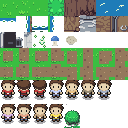
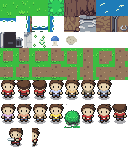
Add 4-direction walk animation (v0.3.1)
The player now uses all three of the pack's direction groups: front
walk frames heading south, back-view frames heading north, and the
left profile flipped for eastward travel. Idle keeps the last facing
(front/profile/back). Facing is a 4-way dir field, persisted in the
autosave (old saves default to 'down' and still load).

Claude-Session: https://claude.ai/code/session_01ChLL6QenZNTuqnURQ6Drzs

diff --git a/index.html b/index.html
@@ -141,7 +141,7 @@
 
 <script>
 'use strict';
-const VERSION='0.3.0';
+const VERSION='0.3.1';
 /* =====================================================================
    FOGVALE — Chapter One: The Stable Door
    A single-file, phone-first, Ultima-VII-inspired browser RPG prototype.
@@ -236,7 +236,7 @@ const objects = []; // {x,y,type}
 const objectAt=(x,y)=>objects.find(o=>o.x===x&&o.y===y);
 
 /* ---------- game state ---------- */
-const P = { x:17, y:60, rx:17, ry:60, face:1 }; // player tile + render position + facing
+const P = { x:17, y:60, rx:17, ry:60, dir:'down' }; // player tile + render position + 4-way facing
 let path = [];                                  // queued steps [{x,y}...]
 let pending = null;                             // interaction on arrival
 let stepClock = 0;
@@ -525,7 +525,7 @@ function saveGame(){
   if(!started) return;
   try{
     localStorage.setItem(SAVE_KEY, JSON.stringify({
-      v:1, x:P.x, y:P.y, face:P.face, time, inv, F, V,
+      v:1, x:P.x, y:P.y, dir:P.dir, time, inv, F, V,
       topics:[...knownTopics], doors:[...openDoors], seen:[...explored],
       left:objects.filter(o=>o.type!=='body').map(o=>o.x+','+o.y)
     }));
@@ -540,7 +540,7 @@ function loadGame(){
     say('Your old tale could not follow you here; the vale begins anew.');
     return false;
   }
-  P.x=s.x; P.y=s.y; P.rx=s.x; P.ry=s.y; P.face=s.face||1;
+  P.x=s.x; P.y=s.y; P.rx=s.x; P.ry=s.y; P.dir=s.dir||'down';
   time=s.time|0;
   Object.assign(inv,s.inv); Object.assign(F,s.F); Object.assign(V,s.V);
   for(const t of s.topics) knownTopics.add(t);
@@ -724,11 +724,13 @@ const ATLAS_DEF = {
   road12:[64,64,16,16], road13:[80,64,16,16], road14:[96,64,16,16], road15:[112,64,16,16],
   player0:[0,80,16,24], player1:[16,80,16,24], player2:[32,80,16,24],
   npc0:[48,80,16,24], npc1:[64,80,16,24], npc2:[80,80,16,24], npc3:[96,80,16,24],
-  npc4:[0,104,16,24], npc5:[16,104,16,24], npc6:[32,104,16,24], npc7:[48,104,16,24]
+  npc4:[0,104,16,24], npc5:[16,104,16,24], npc6:[32,104,16,24], npc7:[48,104,16,24],
+  playerD1:[80,104,16,24], playerD2:[96,104,16,24], playerL0:[112,104,16,24],
+  playerU0:[0,128,16,24], playerU1:[16,128,16,24], playerU2:[32,128,16,24]
 };
 /*ATLAS_DEF_END*/
 const NPC_COLORS=['#b8c4e8','#d8b47e','#8a7f6a','#9aa5b8','#c9a8d8','#d89a7e','#b89a78','#e8d454'];
-const ATLAS_W=128, ATLAS_H=128;
+const ATLAS_W=128, ATLAS_H=160;
 
 let atlasReady=false, atlasCv=null, terrainCv=null;
 const atlasImg=new Image();
@@ -870,8 +872,13 @@ function draw(now){
     drawSprite(npcCell(n), n.x*ts-camX, n.y*ts-camY);
   }
   const walking = path.length>0 || Math.abs(P.x-P.rx)+Math.abs(P.y-P.ry)>0.02;
-  const frame = walking ? (Math.floor(now/150)%2 ? 'player1':'player2') : 'player0';
-  drawSprite(frame, Math.round(P.rx*ts-camX), Math.round(P.ry*ts-camY), P.face>0); // art faces left
+  const ph = Math.floor(now/150)%2;
+  let frame, flip=false;
+  if(P.dir==='up')        frame = walking ? (ph?'playerU1':'playerU2') : 'playerU0';
+  else if(P.dir==='down') frame = walking ? (ph?'playerD1':'playerD2') : 'player0';
+  else { frame = walking ? (ph?'player1':'player2') : 'playerL0';
+         flip = P.dir==='right'; }              // profile art faces left
+  drawSprite(frame, Math.round(P.rx*ts-camX), Math.round(P.ry*ts-camY), flip);
 
   // 5. fog & night, upscaled from the lightmap with smoothing for soft edges
   ctx.imageSmoothingEnabled=true;
@@ -938,7 +945,8 @@ function step(){
   const nxt=path.shift();
   if(!walkable(nxt.x,nxt.y)){ path=[]; return; }
   const wasNight=isNight();
-  if(nxt.x!==P.x) P.face = nxt.x>P.x ? 1 : -1;
+  if(nxt.y>P.y) P.dir='down'; else if(nxt.y<P.y) P.dir='up';
+  else if(nxt.x>P.x) P.dir='right'; else if(nxt.x<P.x) P.dir='left';
   P.x=nxt.x; P.y=nxt.y;
   time++;
   if(grid[P.y][P.x]==='+' && !openDoors.has(P.x+','+P.y)){

diff --git a/tools/atlas.html b/tools/atlas.html
@@ -36,7 +36,9 @@ const ATLAS_DEF = {
   road12:[64,64,16,16], road13:[80,64,16,16], road14:[96,64,16,16], road15:[112,64,16,16],
   player0:[0,80,16,24], player1:[16,80,16,24], player2:[32,80,16,24],
   npc0:[48,80,16,24], npc1:[64,80,16,24], npc2:[80,80,16,24], npc3:[96,80,16,24],
-  npc4:[0,104,16,24], npc5:[16,104,16,24], npc6:[32,104,16,24], npc7:[48,104,16,24]
+  npc4:[0,104,16,24], npc5:[16,104,16,24], npc6:[32,104,16,24], npc7:[48,104,16,24],
+  playerD1:[80,104,16,24], playerD2:[96,104,16,24], playerL0:[112,104,16,24],
+  playerU0:[0,128,16,24], playerU1:[16,128,16,24], playerU2:[32,128,16,24]
 };
 /*ATLAS_DEF_END*/
 
@@ -45,7 +47,7 @@ const ATLAS_DEF = {
 const NPC_COLORS = ['#b8c4e8','#d8b47e','#8a7f6a','#9aa5b8','#c9a8d8','#d89a7e','#b89a78','#e8d454'];
 
 const atlas = document.getElementById('atlas');
-atlas.width = 128; atlas.height = 128;
+atlas.width = 128; atlas.height = 160;
 const ctx = atlas.getContext('2d');
 
 const OW = new Image(), CH = new Image();
@@ -199,11 +201,18 @@ for(let mask=0; mask<16; mask++){
 
 /* ---------------- people: hero frames, cropped 16x24, NPCs recolored ----- */
 /* character.png frames are 16x32; the figure lives in the lower ~24px.
-   Row 0 (y=0): walk down. Profile row (y=64): used for walk L/R via flip. */
+   Row groups: y=0 walk down · y=64 left profile · y=128 walk up (back view).
+   Right-facing is the left profile flipped at draw time. */
 const CROP_Y = 8;
-put(CH, 0,  32*0+CROP_Y, 'player0', { sh:24 });   // down-facing idle
-put(CH, 16, 32*2+CROP_Y, 'player1', { sh:24 });   // profile stride A
-put(CH, 48, 32*2+CROP_Y, 'player2', { sh:24 });   // profile stride B
+put(CH, 0,  32*0+CROP_Y, 'player0',  { sh:24 });  // idle, facing down
+put(CH, 16, 32*0+CROP_Y, 'playerD1', { sh:24 });  // walk down A
+put(CH, 48, 32*0+CROP_Y, 'playerD2', { sh:24 });  // walk down B
+put(CH, 0,  32*2+CROP_Y, 'playerL0', { sh:24 });  // idle, profile
+put(CH, 16, 32*2+CROP_Y, 'player1',  { sh:24 });  // walk profile A
+put(CH, 48, 32*2+CROP_Y, 'player2',  { sh:24 });  // walk profile B
+put(CH, 0,  32*4+CROP_Y, 'playerU0', { sh:24 });  // idle, facing up
+put(CH, 16, 32*4+CROP_Y, 'playerU1', { sh:24 });  // walk up A
+put(CH, 48, 32*4+CROP_Y, 'playerU2', { sh:24 });  // walk up B
 NPC_COLORS.forEach((c,i)=> put(CH, 0, CROP_Y, 'npc'+i, { sh:24 }) );
 
 /* recolor npc shirts: strong-red pixels → the npc's robe color */
